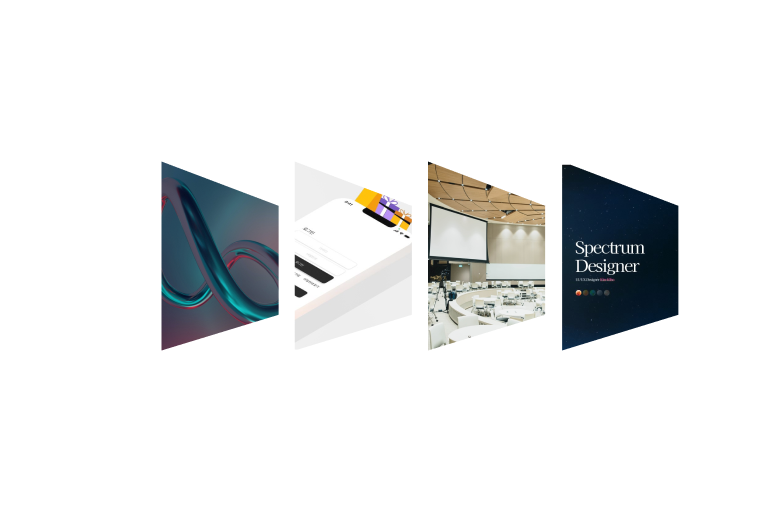
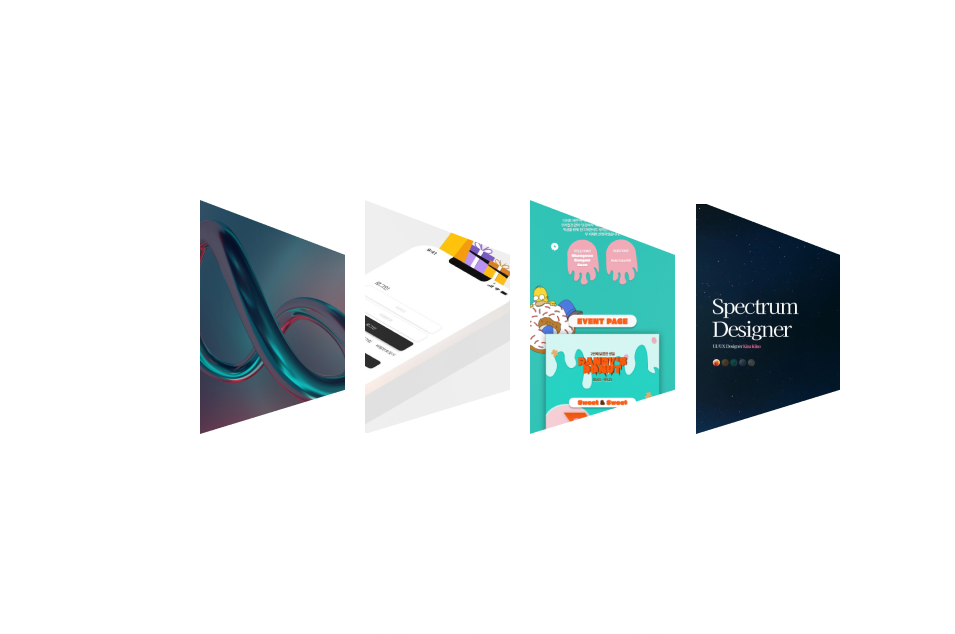
221213

Changed region(s): [[0.5292, 0.3125, 0.716, 0.6875], [0.7471, 0.4688, 0.8405, 0.5312]]

diff --git a/index.html b/index.html
@@ -29,13 +29,13 @@
   <!-- 외부 js 라이브러리 // 웹폰트 // 폰트어썸 -->
 
   <link rel="preconnect" href="https://fonts.googleapis.com">
-  <link rel="preconnect" href="https://fonts.gstatic.com" crossorigin>
-  <link href="https://fonts.googleapis.com/css2?family=Kaisei+Tokumin&family=Noto+Sans+KR:wght@100&display=swap"
-    rel="stylesheet">
+<link rel="preconnect" href="https://fonts.gstatic.com" crossorigin>
+<link href="https://fonts.googleapis.com/css2?family=Inter:wght@900&family=Kaisei+Tokumin&family=Noto+Sans+KR:wght@100&display=swap" rel="stylesheet">
   <style>
     * {
-      font-family: 'Kaisei Tokumin', serif;
-      font-family: 'Noto Sans KR', sans-serif;
+      font-family: 'Inter', sans-serif;
+font-family: 'Kaisei Tokumin', serif;
+font-family: 'Noto Sans KR', sans-serif;
     }
   </style>
 
@@ -84,7 +84,7 @@
       <div class="bottom">
         <div class="text-bottom1 row">
           <p class="txt1 cell">VIEW PROCESS</p>
-          <P class="txt1 cell">PORTFOLIO</P>
+          <P class="txt2 cell">PORTFOLIO</P>
         </div>
       </div>
 
@@ -251,7 +251,7 @@
             <p class="top top1">Possibility</p>
             <p>
               <span>Commuication</span><br>
-              요즘 유행하는 MBTI를 빌려 INFJ의<br>
+              요즘 유행하는 MBTI를 빌려 ENTJ의<br>
               성격인 저는  군인시절 분대장과 또래상담병을 했을 정도의<br> 
               공감능력과 적절한 리더십을 갖추었습니다. <br>
               또한, 저를 좋은사람으로 봐주는 좋은지인들과 <br>
@@ -492,7 +492,7 @@
             처음엔 팔굽혀펴기 2개도 못하던 저였지만 <br>
             “2개면 어때 꾸준히만 해보자”<br>
             라는 생각으로 운동을 시작하게 되었고<br>
-            어느새 꾸준히 운동을 한지도 1년 반이 되었습니다.<br>
+            어느새 꾸준히 운동을 한지도 2년이 되었습니다.<br>
             <br>
             운동을하면서 가장 중요한것은 꾸준함과 열정이라는걸<br>
             알게되었고, 목표를 달성했을때의 기쁨을 깨달았습니다.<br>
@@ -570,16 +570,50 @@
     <div class="star sf5-1 cell" style="background-image: url(./img/Star\ 1.png);"></div>
   </div>
   <div class="port-img row">
-  <div class="port cell"  style="background-image: url(./img/port1.png)"></div>
 
+    <a href="https://www.figma.com/proto/nthBHiu2fQjcExS3Wqv3q3/%EB%B9%84%EC%A0%BC%EC%BD%94%EB%A6%AC%EC%95%84-%EB%A6%AC%EB%94%94%EC%9E%90%EC%9D%B8?page-id=2%3A9&node-id=16%3A33" target="_blank">
+      <img class="port1 port" src="./img/port1.png" alt="">
+    </a>
+    <a href="https://www.figma.com/proto/aPcgro2lugneCEVZqOuwAB/Untitled?page-id=216%3A307&node-id=248%3A1608" target="_blank">
+      <img class="port2 port" src="./img/port2.png" alt="">
+    </a>
+    <a href="https://www.figma.com/proto/ygxKLvMMbPZLEq7FqfdPvC/Untitled?page-id=0%3A1&node-id=2%3A2&viewport=198%2C349%2C0.02&scaling=min-zoom" target="_blank">
+      <img class="port3 port" src="./img/port3.png" alt="">
+    </a>
+    <a href="#" target="_blank">
+      <img class="port4 port" src="./img/port4.png" alt="">
+    </a>
+ 
+      <img class="port5" src="./img/Group 54.png" alt="">
+ 
+  <!-- <div class="port cell"  style="background-image: url(./img/port1.png)">
+  <p>1</p>
+    <span class="por-txt1">Web Redisign<br> Vision Korea</span>
+  
+  </div>
+   
 
-    <div class="port cell"  style="background-image: url(./img/port2.png)"></div>
+    <div class="port cell"  style="background-image: url(./img/port2.png)">
+      <p>2</p>
+      <span class="por-txt2">App Redisign<br>Dicernment</span>
 
+    </div>
+    
 
-      <div class="port cell"  style="background-image: url(./img/port3.png)"></div>
+      <div class="port cell"  style="background-image: url(./img/port3.png)">
+        <p>3</p>
+        <span class="por-txt3">Event Page<br>Randy's Donut</span>
 
+      </div>
+      
 
-        <div class="port cell"  style="background-image: url(./img/port4.png)"></div>
+        <div class="port cell"  style="background-image: url(./img/port4.png)">
+          <p>4</p>
+          <span class="por-txt4">Portfolio Page<br>Universe</span>
+
+        </div>
+         -->
+
       </div>
       
           </div>
@@ -589,7 +623,16 @@
 
       <div class="long-space" style="background-image: url(./img/long\ space.png);">
 
+        <div class="credit-wrap">
+
+        <p>Process Credit</p>
+       <div class="credit" style="background-image: url(./img/credit.png);"></div>
+       <div class="span-wrap"> 
+       <span>DESIGN DIRECT KIM KI HO     </span>
+        <span>WRITE KIM KI HO</span>
       </div>
+      </div>
+    </div>
 
 
       <div class="right">

diff --git a/css/style.css b/css/style.css
@@ -130,6 +130,7 @@ a {
 
 .right {
   width: 1920px;
+  height: 900px;
   position: absolute;
 }
 
@@ -315,6 +316,8 @@ a {
 } */
 
 .mid {
+  width:500px;
+  height: 400px;
   position: absolute;
   z-index: 999;
   margin-left: 930px;
@@ -365,6 +368,15 @@ a {
 }
 
 .section>.bottom>.text-bottom1>.txt1 {
+  color: white;
+  margin-left: 40px;
+  font-size: 24px;
+  letter-spacing: -6.5%;
+  text-shadow: 0 4px 4px rgba(255, 255, 255, 0.5);
+  cursor: pointer;
+  font-family: kaisei Tokumin;
+}
+.section>.bottom>.text-bottom1>.txt2 {
   color: white;
   margin-left: 40px;
   font-size: 24px;
@@ -670,10 +682,12 @@ a {
   animation-direction:alternate;
 } */
 
-.mid>.planet3 {
+.mid > .planet3 {
   width: 60px;
   height: 60px;
   filter: drop-shadow(0 0 25px rgba(82, 193, 255, 0.5));
+  /* z-index: 99999; */
+
 }
 
 /* .section > .star{ 
@@ -817,12 +831,13 @@ a {
   z-index: 9999;
 }
 
-.right>.portfolio-me {
+.slide > .right> .portfolio-me {
+  position: absolute;
   z-index: 999;
   width: 640px;
   height: 234px;  
-  margin-top: 50px;
-  margin-left: 1165px;
+  top: 372px;
+  right:115px;
   opacity: 0.8;
 }
 
@@ -834,9 +849,9 @@ a {
   transform: scale( 1.1 );
 }
 
-.mid>.planet5 {
-  top:-220px;
+.slide > .mid>.planet5 {
   position:absolute;
+  top:0px;
   width: 60px;
   height: 60px;
   filter: drop-shadow(0 0 25px rgba(255, 144, 43, 0.5));
@@ -893,7 +908,58 @@ a {
 .section > .long-space{
   position: absolute;
   width: 1920px;
-  height: 4310px;
+  height: 4911px;
+}
+
+
+.section > .long-space >.credit-wrap{
+  
+  animation-name: down;
+  animation-duration:30s;
+  animation-iteration-count: 1s;
+  animation-delay:0.5s;
+  animation-direction:alternate;
+}
+
+.section > .long-space >.credit-wrap > p{
+  color: white;
+  z-index: 9999;
+  font-family: kaisei Tokumin;
+  font-size: 72px;
+  margin-top: 220px;
+  margin-left: 732px;
+}
+
+.section > .long-space >.credit-wrap > .span-wrap{
+  position: absolute;
+  left:727px;
+  margin-top: 4509px;
+}
+
+
+.section > .long-space > .credit-wrap > .credit{
+  position: absolute;
+  /* display:flex;
+  justify-content: center; */
+  width: 1129px;
+  height: 4201px;
+  margin-left: 396px;
+  margin-top:166px;
+  
+}
+
+.section > .long-space >.credit-wrap > .span-wrap > span{
+  
+  color: white;
+  z-index: 9999;
+  font-family: kaisei Tokumin;
+  font-size: 16px;
+  margin-left: 40px;
+  text-align: center;
+}
+
+.slide{
+  position: relative;
 }
 
 .slide > .left-txt{
@@ -967,8 +1033,10 @@ a {
 }
 
 .slide > .port-img{
-  margin-top:55px;
-  margin-left:342px;
+  position: absolute;
+  width: 1300px;
+  top:255px;
+  left:382px;
   z-index: 99999;
 }
 
@@ -980,6 +1048,78 @@ a {
   filter: drop-shadow(0 0 200px rgba(255, 255, 255, 0.25));
   transition:0.5s;
   cursor:pointer;
+  
+}
+
+.port{
+  margin-left: 35px;
+}
+
+.port5{
+  margin-top:-50px;
+  margin-left: 10px;
+}
+
+
+.port:hover{
+  filter: drop-shadow(0 0 200px rgba(255, 255, 255, 0.25));
+  transition:0.5s;
+  
+  transform: scale( 1.1 );
+
+}
+
+.slide > .port-img > .port > span{
+  position: absolute;
+  left:7px;
+  top:425px;
+  font-family: inter;
+  font-weight: 1000;
+  letter-spacing:-1px;
+  transform: rotate(-17deg);
+  line-height:42px;
+  font-size: 32px;
+  filter: drop-shadow(0 0 20px rgba(255, 255, 255, 0.25));
+
+}
+
+.slide > .port-img > .port > p {
+  position: absolute;
+  left:15px;
+  top:20px;
+  color: white;
+  font-weight: 900;
+  font-size: 28px;
+  font-family: inter;
+  filter: drop-shadow(0 4px 4px rgba(0, 0, 0, 0.5));
+}
+
+.slide > .port-img > .port > .por-txt1{
+  background: linear-gradient(to bottom, #FFFFFF, #E454DF, #B8D0FF);
+  color: transparent;
+  -webkit-background-clip: text;
+  
+}
+
+.slide > .port-img > .port > .por-txt2{
+  background: linear-gradient(to bottom, #E454DF, #B8D0FF, #B6FDEC);
+  color: transparent;
+  -webkit-background-clip: text;
+  
+}
+
+.slide > .port-img > .port > .por-txt3{
+  background: linear-gradient(to bottom, #B8D0FF, #B6FDEC, #E454DF);
+  color: transparent;
+  -webkit-background-clip: text;
+  
+}
+
+.slide > .port-img > .port > .por-txt4{
+  background: linear-gradient(to bottom, #E454DF, #B6FDEC, #B8D0FF);
+  color: transparent;
+  -webkit-background-clip: text;
+  
 }
 
 
@@ -990,6 +1130,9 @@ a {
    
   transform: scale( 1.1 )
 }
+
+
+
 
 .fp-watermark{
   display:none;
@@ -1059,6 +1202,17 @@ a {
     margin-left:20px;
   }
 }
+
+@keyframes down {
+  0% {
+      top:0px;
+  }
+  100% {
+      top:4911px;
+  }
+}
+
+
 /* 
 @keyframes sb {
   0% { 

diff --git a/js/script.js b/js/script.js
@@ -9,6 +9,15 @@ new fullpage('#fullpage', {
 
 $(document).ready(function() {
 
+  $(".text-bottom1 > .txt1").click(function(){
+    
+    fullpage_api.moveTo('section6', 1);
+  })
+  $(".text-bottom1 > .txt2").click(function(){
+    
+    fullpage_api.moveTo('section4', 1);
+  })
+
 
    $(".section > .top-right > .more").click(function(){
      $(".menu-more-wrap").addClass("active");
